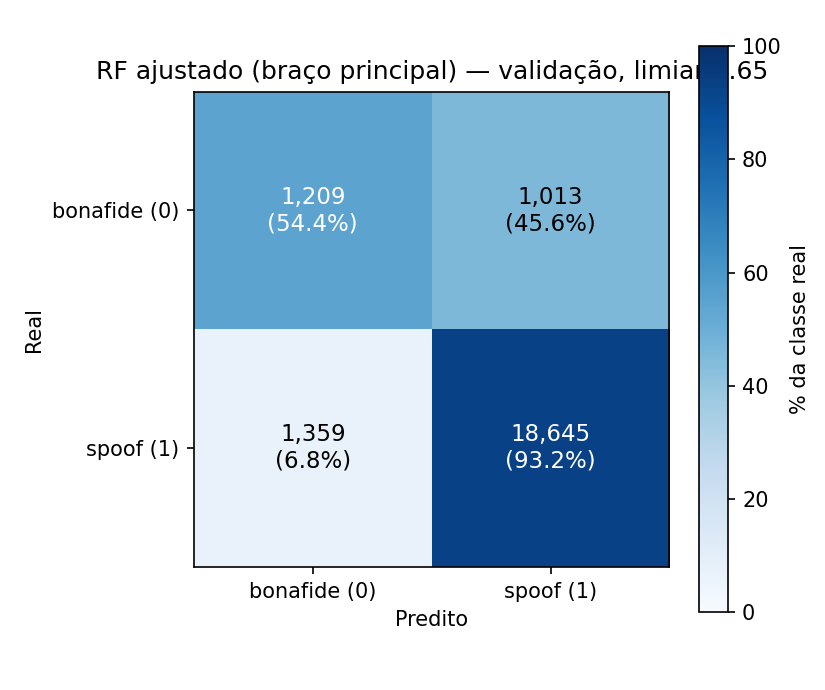
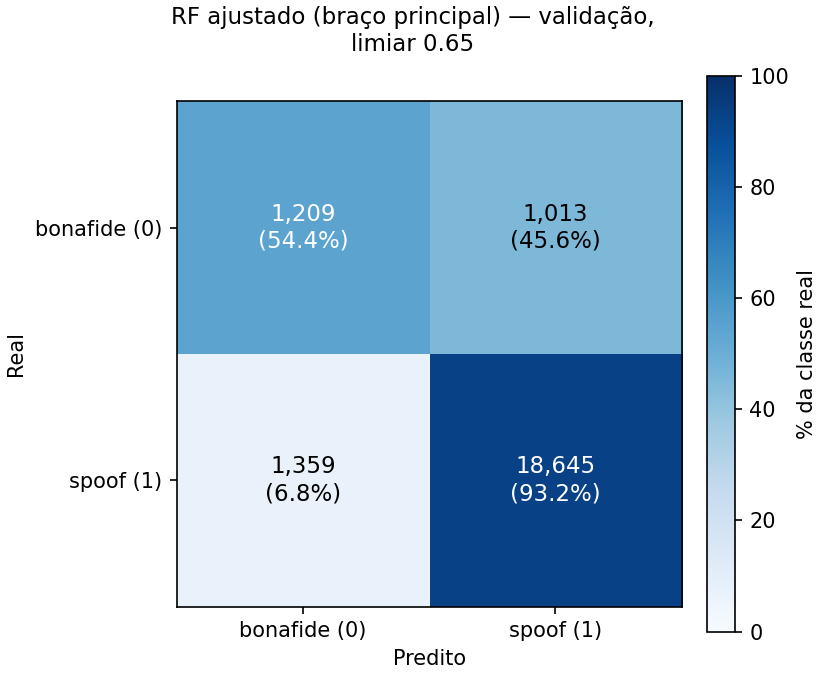
fix(figuras): título cortado na matriz de confusão + tempos re-medidos no A/B/README

diff --git a/scripts/replotar_matrizes_confusao.py b/scripts/replotar_matrizes_confusao.py
@@ -1,0 +1,143 @@
+"""
+Re-renderiza as matrizes de confusão JÁ PUBLICADAS, sem retreinar nada.
+=======================================================================
+
+POR QUE ISTO EXISTE:
+    `plotar_matriz_confusao` (src/models/avaliacao.py) é compartilhada por RF,
+    SVM e CNN — de propósito: num trabalho cuja pergunta é COMPARAR modelos, a
+    figura da comparação precisa ser a mesma régua, como `avaliar` é a mesma
+    régua de métrica. A consequência é que um ajuste nessa função deixa TODAS as
+    figuras já gravadas desatualizadas ao mesmo tempo.
+
+    A alternativa seria reexecutar os pipelines que produziram cada figura. Isso
+    custaria horas de treino e — pior — reescreveria JSONs congelados só para
+    mexer num detalhe de desenho. Este script separa as duas coisas: a matriz de
+    confusão já está gravada dentro de cada JSON de métricas, então redesenhar é
+    ler o array e chamar a função. Nenhum modelo é carregado, nenhum áudio é
+    lido, nenhum JSON é escrito.
+
+O QUE ELE NÃO FAZ, E POR QUÊ:
+    - não recalcula a matriz: o array vem do JSON, então a figura nova mostra
+      EXATAMENTE os mesmos números da antiga. Se recalculasse, o script viraria
+      um segundo caminho de avaliação — e dois caminhos divergem;
+    - não toca no conjunto lacrado: só lê JSONs de validação, listados um a um
+      abaixo. Nada aqui varre diretório em busca de arquivos.
+
+A DUPLICAÇÃO DOS TÍTULOS É DELIBERADA, E VIGIADA:
+    o título de cada figura é construído no módulo que treina o modelo, dentro
+    da mesma f-string que grava o arquivo. Repeti-los aqui cria uma segunda
+    fonte da verdade, que pode divergir. A defesa é a coluna `origem` da tabela:
+    ela nomeia o arquivo e a f-string de onde o título foi copiado. Ao mudar um
+    título no módulo de origem, mude aqui também — ou a figura volta ao texto
+    com um rótulo que o pipeline não produz mais.
+
+USO:
+    python -m scripts.replotar_matrizes_confusao
+    python -m scripts.replotar_matrizes_confusao --conferir   # só verifica
+
+`--conferir` não escreve nada: lista o que seria regerado e sai com código 1 se
+algum JSON esperado não existir. Serve para rodar antes de um commit de figuras.
+"""
+
+import argparse
+import json
+import sys
+from pathlib import Path
+
+RAIZ = Path(__file__).resolve().parents[1]
+sys.path.insert(0, str(RAIZ))
+
+from src.models.avaliacao import plotar_matriz_confusao  # noqa: E402
+
+
+# (nome do artefato, molde do título, origem do molde)
+#
+# O molde recebe o dicionário do JSON. `limiar` é formatado com :.2f — a MESMA
+# precisão dos módulos de origem, que é o que mantém o rótulo idêntico ao que o
+# pipeline grava. Os dois baselines de RF do eval não têm limiar selecionado
+# (são anteriores ao protocolo do Bloco 3) e por isso o título deles não o cita.
+FIGURAS = [
+    (
+        "rf_baseline_eval_principal",
+        lambda d: f"Random Forest baseline (eval, braço {d['braco']}) — validação",
+        "src/models/treinar_rf.py",
+    ),
+    (
+        "rf_baseline_eval_referencia",
+        lambda d: f"Random Forest baseline (eval, braço {d['braco']}) — validação",
+        "src/models/treinar_rf.py",
+    ),
+    (
+        "rf_tuned_principal",
+        lambda d: f"RF ajustado (braço {d['braco']}) — validação, limiar {d['limiar']:.2f}",
+        "src/models/ajustar_rf.py",
+    ),
+    (
+        "rf_tuned_referencia",
+        lambda d: f"RF ajustado (braço {d['braco']}) — validação, limiar {d['limiar']:.2f}",
+        "src/models/ajustar_rf.py",
+    ),
+    (
+        "svm_tuned_principal",
+        lambda d: ("SVM RBF ajustado (braço principal) — validação, "
+                   f"limiar {d['limiar']:.2f}"),
+        "src/models/treinar_svm.py",
+    ),
+    (
+        "cnn_baseline",
+        lambda d: ("CNN baseline (B4.4) — early stopping interno (3k), "
+                   f"limiar {d['limiar']:.2f}"),
+        "src/models/treinar_cnn.py",
+    ),
+    (
+        "cnn_final_principal",
+        lambda d: ("CNN final (braço principal) — validação, "
+                   f"limiar {d['limiar']:.2f}"),
+        "src/models/validar_cnn.py",
+    ),
+]
+
+
+def main() -> int:
+    ap = argparse.ArgumentParser(description=__doc__)
+    ap.add_argument("--conferir", action="store_true",
+                    help="não escreve figura nenhuma; só confere e lista")
+    args = ap.parse_args()
+
+    dir_met = RAIZ / "results" / "metricas"
+    dir_fig = RAIZ / "results" / "figuras"
+    faltando = []
+
+    for nome, molde, origem in FIGURAS:
+        caminho_json = dir_met / f"{nome}.json"
+        if not caminho_json.exists():
+            faltando.append(str(caminho_json.relative_to(RAIZ)))
+            continue
+
+        with open(caminho_json, encoding="utf-8") as f:
+            d = json.load(f)
+        cm = d.get("matriz_confusao")
+        if cm is None:
+            faltando.append(f"{caminho_json.relative_to(RAIZ)} (sem matriz_confusao)")
+            continue
+
+        titulo = molde(d)
+        if args.conferir:
+            print(f"[ok] {nome}: «{titulo}»  (título de {origem})")
+            continue
+        plotar_matriz_confusao(cm, dir_fig / f"matriz_confusao_{nome}.png", titulo)
+
+    if faltando:
+        print("\nARTEFATOS ESPERADOS E NÃO ENCONTRADOS:", file=sys.stderr)
+        for item in faltando:
+            print(f"  - {item}", file=sys.stderr)
+        return 1
+
+    if not args.conferir:
+        print(f"\n{len(FIGURAS)} matrizes regeradas a partir dos JSONs de métricas. "
+              "Nenhum modelo foi carregado e nenhum JSON foi reescrito.")
+    return 0
+
+
+if __name__ == "__main__":
+    raise SystemExit(main())

diff --git a/src/models/avaliacao.py b/src/models/avaliacao.py
@@ -21,6 +21,7 @@ A REGRA DE DECISÃO É UMA SÓ (protocolo do Bloco 3):
     que diverge do `>=` nos empates — ver nota_divergencia_f1.md) por acidente.
 """
 
+import textwrap
 from pathlib import Path
 
 import numpy as np
@@ -212,14 +213,42 @@ def avaliar(y_true, scores, nome: str, limiar: float) -> dict:
     return m
 
 
-def plotar_matriz_confusao(cm: np.ndarray, caminho: Path, titulo: str) -> None:
+def plotar_matriz_confusao(cm: np.ndarray, caminho: Path, titulo: str,
+                           largura_titulo: int = 46) -> None:
     """Matriz de confusão com contagens absolutas E percentual por linha.
 
     Percentual POR LINHA (normalizado pelo total real de cada classe) é o que
     importa aqui: com 8,8:1, os números absolutos da linha 'spoof' esmagam
     visualmente os da 'bonafide' e escondem o erro que interessa.
+
+    TÍTULO — três decisões de layout, tomadas juntas (correção de 23/09/2026):
+
+    1. `fig.suptitle` em vez de `ax.set_title`. O `set_title` centra o texto
+       sobre os EIXOS, e os eixos são estreitos porque a colorbar rouba ~20% da
+       largura da figura. Um título mais largo que os eixos transborda para os
+       dois lados: à direita ele invade a colorbar, à esquerda ele sai da
+       figura e é CORTADO no `savefig`. O `suptitle` centra sobre a FIGURA
+       inteira (eixos + colorbar), que é a referência visual correta.
+    2. `textwrap.fill`. Centrar não basta: um título mais largo que a própria
+       figura continua sendo cortado. A quebra em linhas resolve a causa, e
+       `largura_titulo` fica como parâmetro para o caso de um título futuro
+       precisar de outra medida — ninguém tem de editar esta função.
+    3. `layout="constrained"` em vez de `fig.tight_layout()`. O `tight_layout`
+       não reserva espaço para o `suptitle` de forma confiável (o clássico
+       `rect=[0, 0, 1, 0.9x]` chutado à mão, que erra assim que o título muda
+       de número de linhas). O layout restrito mede o título e a colorbar e
+       distribui o espaço — o resultado não depende do comprimento do texto.
+       Os dois mecanismos são incompatíveis: chamar `tight_layout` aqui
+       DESLIGARIA o layout restrito e reintroduziria o corte.
+
+    POR QUE ISTO IMPORTA ALÉM DA ESTÉTICA: esta função é compartilhada por RF,
+    SVM e CNN (é a mesma régua de figura, pelo mesmo motivo que `avaliar` é a
+    mesma régua de métrica). Um defeito de layout aqui aparece igual nas três
+    figuras da comparação, e um título cortado numa figura da comparação é um
+    ponto que a banca enxerga antes do conteúdo.
     """
-    fig, ax = plt.subplots(figsize=(5.5, 4.6))
+    cm = np.asarray(cm)
+    fig, ax = plt.subplots(figsize=(5.5, 4.6), layout="constrained")
     cm_pct = cm.astype(float) / cm.sum(axis=1, keepdims=True) * 100
 
     im = ax.imshow(cm_pct, cmap="Blues", vmin=0, vmax=100)
@@ -228,7 +257,6 @@ def plotar_matriz_confusao(cm: np.ndarray, caminho: Path, titulo: str) -> None:
     ax.set_yticks([0, 1], labels=nomes)
     ax.set_xlabel("Predito")
     ax.set_ylabel("Real")
-    ax.set_title(titulo)
 
     for i in range(2):
         for j in range(2):
@@ -238,7 +266,7 @@ def plotar_matriz_confusao(cm: np.ndarray, caminho: Path, titulo: str) -> None:
                     fontsize=11)
 
     fig.colorbar(im, ax=ax, label="% da classe real")
-    fig.tight_layout()
+    fig.suptitle(textwrap.fill(titulo, width=largura_titulo), fontsize=11)
     caminho.parent.mkdir(parents=True, exist_ok=True)
     fig.savefig(caminho, dpi=150)
     plt.close(fig)

diff --git a/src/models/validar_cnn.py b/src/models/validar_cnn.py
@@ -869,10 +869,13 @@ def executar(cfg: dict, raiz: Path, estrito: bool = True) -> dict:
     with open(dir_met / f"{NOME}.json", "w", encoding="utf-8") as f:
         json.dump(m, f, indent=2, ensure_ascii=False)
     # Título na MESMA forma dos de RF e SVM («X (braço principal) — validação,
-    # limiar Y»), e por um motivo prático além da simetria: `plotar_matriz_confusao`
-    # é compartilhada e tem figsize fixo, então um título mais longo que o dos
-    # outros dois é CORTADO na figura. O «refit 30k» vive no JSON e no rótulo de
-    # MODELOS_PRINCIPAIS, que é onde ele precisa estar.
+    # limiar Y»). O motivo agora é SÓ a simetria: as três figuras entram lado a
+    # lado na comparação e uma com título de forma diferente destoa. A restrição
+    # técnica que existia aqui — um título mais longo que o dos outros dois era
+    # CORTADO, porque a função compartilhada tem figsize fixo — foi removida em
+    # 23/09/2026: `plotar_matriz_confusao` passou a quebrar o título em linhas e a
+    # usar layout restrito (ver a docstring dela). O «refit 30k» continua no JSON
+    # e no rótulo de MODELOS_PRINCIPAIS, que é onde ele precisa estar.
     plotar_matriz_confusao(
         cm, raiz / "results" / "figuras" / f"matriz_confusao_{NOME}.png",
         f"CNN final (braço principal) — validação, limiar {sel['limiar']:.2f}")

diff --git a/docs/execucao/APENDICE_A_inventario.md b/docs/execucao/APENDICE_A_inventario.md
@@ -241,10 +241,50 @@ Notas que importam para a comparação:
   (R² = 0,9934), o RF precisaria de ~276.116 áudios de treino para alcançar o f1 do
   SVM — 1,86× o universo eval inteiro.
 
-**Tempos** (`results/metricas/tempo_pipeline_completo.json`, por áudio, batch = 1):
-carregar 0,639 ms + VAD/padding 0,371 ms + features 3,705 ms; predição **RF 6,405 ms**
-(total 11,12) contra **SVM 0,613 ms** (total 5,33). Em lote o RF é ~19× melhor.
-A hipótese de que o pré-processamento dominaria **não se confirmou**.
+**Tempos ponta a ponta** (`results/metricas/tempo_pipeline_completo.json`, medição de
+**20/09/2026**, por áudio, batch = 1, amostra de 200 áudios da validação):
+
+| ramo | base (carregar + VAD/padding + representação) | predição | **total** |
+|---|---:|---:|---:|
+| RF ajustado (principal) | 0,5735 + 0,3394 + 3,4345 (features) = **4,3474** | 5,8819 | **10,2293** |
+| SVM RBF ajustado (principal) | mesma base: **4,3474** | 0,5717 | **4,9191** |
+| CNN final — **GPU** | 0,5815 + 0,3497 + 2,4775 (log-Mel) = **3,4087** | 1,1678 | **4,5765** |
+| CNN final — **CPU** | mesma base: **3,4087** | 13,3881 | **16,7968** |
+
+> **Estes números substituem os da medição anterior** (RF 11,12 · SVM 5,33). A
+> diferença é de ~8% e **não** vem de mudança no código de RF/SVM: os três modelos
+> foram recronometrados **na mesma execução**, em B4.7, porque comparar a CNN medida
+> hoje com RF/SVM medidos três semanas antes, noutro estado de máquina, não é
+> comparação. Se um número de tempo aparecer em outro documento com o valor antigo,
+> **este aqui manda** — e o outro se corrige.
+
+Quatro leituras, e as quatro vão para o texto:
+
+- **A hipótese de que o pré-processamento dominaria não se confirmou para o RF** (a
+  predição é 57,5% do total dele), **mas se confirma para o SVM** (a base é 88,4% do
+  total) e **para a CNN em GPU** (a base é 74,5%, com o log-Mel sozinho em 54,1%). É
+  o mesmo pipeline; o que muda é o custo do classificador no fim dele.
+- **A CNN em GPU é mais barata ponta a ponta que o RF** (4,58 contra 10,23 ms) — e a
+  CNN em CPU é a mais cara de todas (16,80 ms). **A resposta sobre custo
+  computacional é condicional ao hardware**, e tem de ser escrita assim.
+- **Em lote a ordem muda de novo** (`tempos_inferencia.throughput` nos JSONs de cada
+  modelo, batch = 22.226): RF **0,0204** ms/áudio, CNN-GPU **0,2383**, SVM **0,4025**
+  — o RF é ~19,7× melhor que o SVM. Latência e vazão **não** classificam os modelos
+  na mesma ordem; reportar só uma delas é meio resultado.
+- **Armadilha de medição registrada em B4.7:** os `descartar_aquecimento: 3` do
+  `config.yaml` são 3 *iterações* (~3 ms em GPU) e **não** tiram a placa do estado de
+  baixo consumo depois de um trecho longo de CPU. Medido: **8,83 ms com a GPU fria
+  contra 0,82 ms quente** — a primeira execução publicou o número frio e
+  superestimava a latência da CNN em ~10×. É o **espelho** da armadilha do
+  `torch.cuda.synchronize()` (0,91 ms falsos contra 28,70 ms reais): uma infla, a
+  outra desinfla, e nenhuma das duas se detecta lendo o código. As duas ficam
+  registradas em `cnn_final_principal.json`, com o número frio publicado ao lado do
+  quente.
+
+> **Não confundir escopos.** A `latencia_ms` dentro de `rf_tuned_principal.json` e
+> companhia mede **só a predição**, a partir da representação já extraída e noutra
+> execução — daí RF 6,1075 ms lá e 5,8819 ms aqui. O número que responde «quanto
+> custa classificar um áudio» é o **total** da tabela acima.
 
 ---
 

diff --git a/docs/execucao/APENDICE_B_banca.md b/docs/execucao/APENDICE_B_banca.md
@@ -445,15 +445,30 @@ cuDNN podem tornar a 1ª inferência 100× mais lenta); `torch.cuda.synchronize(
 tempo de **enfileirar**, não de executar, e a CNN pareceria milhares de vezes mais
 rápida); medir latência (`batch=1`) e throughput (lote) **separadamente**; `n_jobs`
 fixo e declarado (1) para todos; mediana + mínimo + máximo de N execuções, nunca
-medição única; hardware e versões no JSON.
+medição única; hardware e versões no JSON. E — achado de B4.7 — **aquecer o
+dispositivo antes do cronômetro**: os 3 descartes do protocolo são 3 *iterações*
+(~3 ms em GPU) e não tiram a placa do estado de baixo consumo depois de um trecho
+longo de CPU. Medimos **8,83 ms com a GPU fria contra 0,82 ms quente**. É o
+**espelho** do erro do `synchronize()`: um infla a medida, o outro a desinfla, e
+nenhum dos dois aparece na leitura do código. Os dois números ficam publicados lado a
+lado em `cnn_final_principal.json`.
 
 **Qual foi o achado?**
-A hipótese registrada de que o pré-processamento dominaria **não se confirmou** no
-ramo clássico: por áudio, carregar 0,639 ms + VAD 0,371 ms + features 3,705 ms, e a
-**predição do RF é 6,405 ms** — 57,6% do custo total de 11,12 ms. O SVM prediz em
-0,613 ms (total 5,33 ms). Mas **em lote o RF é ~19× melhor** que o SVM. Conclusão:
-**não existe «o modelo mais barato» sem dizer o regime** — latência unitária e
-throughput em lote dão respostas opostas.
+A hipótese registrada de que o pré-processamento dominaria **não se confirmou para o
+RF**, mas **se confirmou para o SVM e para a CNN em GPU**. Por áudio, batch = 1, os
+três medidos **na mesma execução** (20/09): base do ramo clássico 4,3474 ms
+(carregar 0,5735 + VAD 0,3394 + features 3,4345) e base do ramo CNN 3,4087 ms
+(carregar 0,5815 + VAD 0,3497 + log-Mel 2,4775); predição **RF 5,8819** (total
+**10,2293** — 57,5% no classificador), **SVM 0,5717** (total **4,9191** — 88,4% na
+base), **CNN-GPU 1,1678** (total **4,5765** — 74,5% na base, com o log-Mel sozinho em
+54,1%) e **CNN-CPU 13,3881** (total **16,7968** — 79,7% no classificador).
+
+Três conclusões: **a CNN em GPU é mais barata ponta a ponta que o RF** (4,58 contra
+10,23 ms) e a **CNN em CPU é a mais cara de todas** (16,80 ms), logo a resposta sobre
+custo é **condicional ao hardware**; **em lote a ordem muda outra vez** (RF 0,0204
+ms/áudio, CNN-GPU 0,2383, SVM 0,4025 — o RF é ~19,7× melhor que o SVM); e portanto
+**não existe «o modelo mais barato» sem dizer o regime** — latência unitária,
+throughput em lote e presença de GPU dão respostas diferentes.
 
 ---
 

diff --git a/README.md b/README.md
@@ -276,13 +276,30 @@ capturados por ZCR/centróide vivem acima de 4 kHz — e reforça a rejeição d
 ### Custo de inferência ponta a ponta
 
 `tempo_pipeline_completo.json` mede o pipeline real por áudio (batch = 1,
-200 áudios da validação, mesmas funções do pipeline de produção): carregar 0,639
-ms + VAD/padding 0,371 ms + features 3,705 ms, mais a predição — **RF 6,405 ms**
-(total 11,12) contra **SVM 0,613 ms** (total 5,33). A hipótese registrada no
-`config.yaml` de que o pré-processamento dominaria **não se confirmou**: a
-predição é 57,6% do custo no RF. Por áudio o SVM é ~2,1× mais barato; em lote o
-RF continua ~19× melhor. **Não existe "o modelo mais barato" sem dizer o
-regime** — leitura completa em `NOTA_RF_VS_SVM.md` §1.1.
+200 áudios da validação, mesmas funções do pipeline de produção). Os quatro
+arranjos foram medidos **na mesma execução** (20/09/2026), que é o que torna a
+comparação legítima:
+
+| ramo | base | predição | **total** |
+|---|---:|---:|---:|
+| RF ajustado | 4,3474 (carregar 0,5735 + VAD 0,3394 + features 3,4345) | 5,8819 | **10,2293** |
+| SVM RBF ajustado | 4,3474 (mesma base) | 0,5717 | **4,9191** |
+| CNN final — GPU | 3,4087 (carregar 0,5815 + VAD 0,3497 + log-Mel 2,4775) | 1,1678 | **4,5765** |
+| CNN final — CPU | 3,4087 (mesma base) | 13,3881 | **16,7968** |
+
+A hipótese registrada no `config.yaml` de que o pré-processamento dominaria
+**não se confirmou para o RF** (a predição é 57,5% do custo dele), mas **se
+confirmou para o SVM** (base = 88,4%) e **para a CNN em GPU** (base = 74,5%, com
+o log-Mel sozinho em 54,1%). A **CNN em GPU sai mais barata ponta a ponta que o
+RF**; a **CNN em CPU é a mais cara de todas** — a resposta sobre custo é
+**condicional ao hardware**. Em lote a ordem muda outra vez: RF 0,0204 ms/áudio,
+CNN-GPU 0,2383, SVM 0,4025 (RF ~19,7× melhor que o SVM). **Não existe "o modelo
+mais barato" sem dizer o regime** — leitura completa em `NOTA_RF_VS_SVM.md` §1.1.
+
+> Os valores anteriores desta seção (RF 11,12 · SVM 5,33) foram substituídos em
+> B4.7: RF, SVM e CNN foram recronometrados juntos, porque comparar medidas
+> separadas por três semanas e por estados de máquina diferentes não é comparar.
+> A diferença ficou em ~8% e não decorre de mudança no código de RF/SVM.
 
 ### Importância das features: impureza × permutação
 
